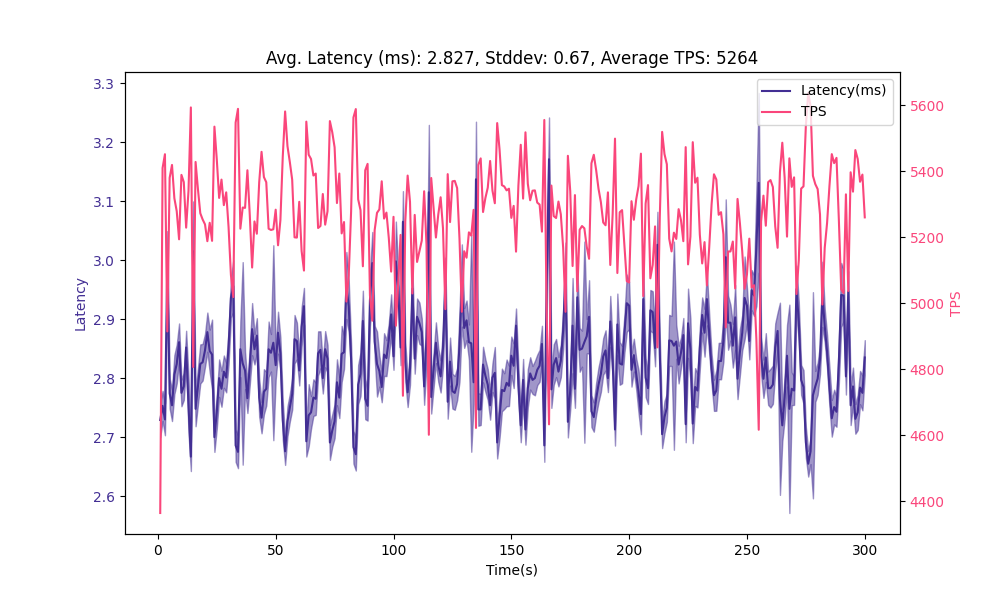
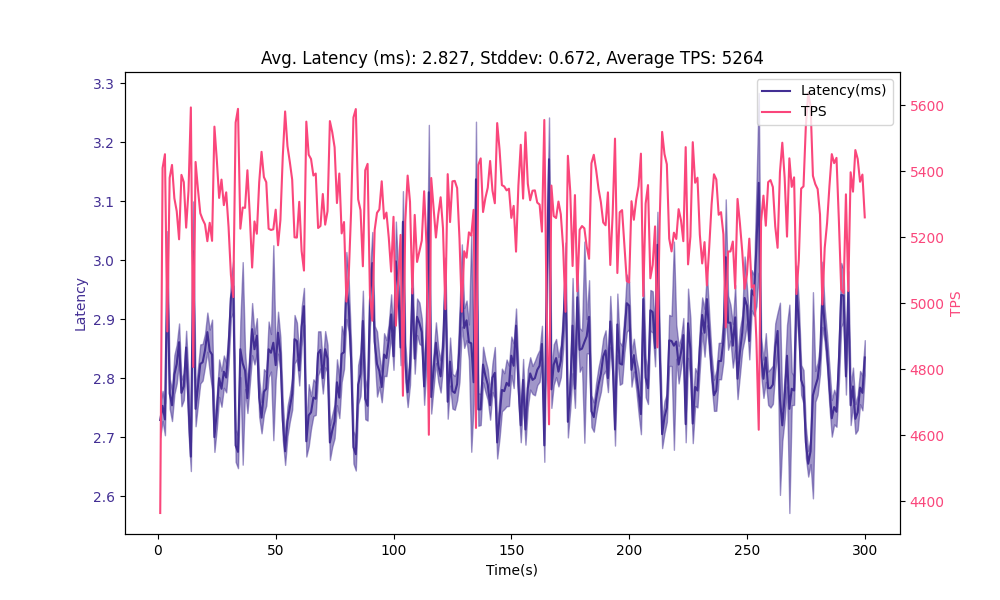
pass

Changed region(s): [[0.248, 0.06, 0.775, 0.12]]

diff --git a/blog/2023-08-31-tuning-autovacuum/index.md b/blog/2023-08-31-tuning-autovacuum/index.md
@@ -210,27 +210,21 @@ ALTER SYSTEM SET autovacuum_naptime = '1min';
 SELECT pg_reload_conf();
 ```
 
-Let’s run a benchmark to get a baseline:
+Let’s run a benchmark to get a baseline. We will reuse this benchmark through the process.
 
 ```sh
-pgbench 'postgresql://postgres:pw@host:5432' 
--c 100 
--j 1 
--P 1 
--T 300 
--r 
--f churn.sql
+pgbench 'postgresql://postgres:pw@host:5432' -c 100 -j 1 -P 1 -T 300 -r -f churn.sql
 ```
 
 ![default](default.png "default")
 
-Average latency is about 3.4 ms. We are benchmarking an expensive set of queries, and you’ve probably noticed the sawtooth pattern in the plot, and a relatively high standard deviation. This is a symptom of bloat accumulating on our table. Query latency grows until the vacuum process clears dead tuples, and then grows once again. Ideally we can reduce average latency and provide some stability to the latency value as well.
+Average latency is about 3.4 ms. We are benchmarking an expensive set of queries, and you’ve probably noticed the sawtooth pattern in the plot and a high standard deviation relative to the latency. This is a symptom of bloat accumulating on our table. Query latency grows until the vacuum process clears dead tuples, and then grows once again. This also has an inverse impact on transactions per second (TPS). Ideally we can reduce and provide some stability to latency.
 
 ## Balancing Vacuum Delay for Optimal System Performance
 
 Vacuuming is indispensable. However, it is not free and if left unchecked, it can burden your system. The balance lies in `autovacuum_vacuum_cost_delay` and `autovacuum_vacuum_cost_limit`. `autovacuum_vacuum_cost_delay` is the amount of time that the autovacuum process will halt processing when the `autovacuum_vacuum_cost_limit` is reached. Imagine this series of events - a table reaches 10% bloat, meaning 10% of the tuples are dead. When the 10% threshold is reached, the autovacuum worker begins to work and starts accruing cost. When that cost reaches `autovacuum_vacuum_cost_limit`, it will pause for the duration specified by `autovacuum_vacuum_cost_delay`, and then continue working until it is complete.
 
-Modifying these can craft the perfect balance between seamless vacuuming and system efficiency. Let’s increase the cost limit to the max, and reduce the delay by  half. This will let the autovacuum process run longer and pause for a shorter period of time when it does reach the cost limit, to ideally reduce bloat faster and reduce query latency. 
+Modifying these can craft the perfect balance between seamless vacuuming and system efficiency. Let’s increase the cost limit to the max, and reduce the delay by  half. This will let the autovacuum process run longer and pause for a shorter period of time when it does reach the cost limit, to ideally reduce bloat faster and reduce query latency.
 
 ```sql
 ALTER SYSTEM SET autovacuum_vacuum_cost_delay = '10ms';
@@ -240,7 +234,7 @@ SELECT pg_reload_conf();
 
 ![delay_cost_limit](delay_limit.png "delay-cost-limit")
 
-We have a slight reduction in average latency, but we can still see that it obviously grows over time, and clears roughly every 60 seconds.
+We have a slight reduction in average latency, but we can still see that the obviously grows in latency over time and decrease in TPS. It clears roughly every 60 seconds.
 
 ## Fine-Tuning Auto Vacuum Scale Factors
 
@@ -253,27 +247,13 @@ SELECT pg_reload_conf();
 
 ![scale-factor](scale_factor.png "scale-factor")
 
-scaling factor: 1
-query mode: simple
-number of clients: 15
-number of threads: 1
-duration: 300 s
-number of transactions actually processed: 1374255
-latency average = 3.250 ms
-latency stddev = 0.950 ms
-initial connection time = 421.651 ms
-tps = 4587.258737 (without initial connection time)
-statement latencies in milliseconds:
-         3.250  DO $$
-
-
-Reducing the scale factor had limited effect on our result, unfortunately.
+Reducing the scale factor had minimal impact on our result, so allowing the autovacuum to trigger sooner did not help. We can see that the period of the sawtooth pattern is still about 60 seconds, which means there we are probably limited by `autovacuum_naptime`, which we'll talk about next.
 
 ## A Quick Siesta for Your System
 
-The autovacuum_naptime parameter in PostgreSQL dictates the duration between auto-vacuum runs. By default, PostgreSQL has set intervals for these operations. Depending on just how high-churn your workloads are, it might be necessary to decrease this value, whereas a longer interval could be suited for environments that are not churning at such a high rate. For a table that has incredibly high churn, like a queue, it is likely that the table routinely sits near 100% bloat.
+The autovacuum_naptime parameter in Postgres specifies the minimum delay between autovacuum runs on any given database. The default (which we set earlier) is `1min`. Generally, depending on just how high-churn your workloads are, it might be necessary to decrease this value, whereas a longer interval could be suited for environments that are not churning at such a high rate. But our table has a crazy amount of churn.
 
-We want to reduce the height of the latency peaks. One way to do this is to make the vacuum more aggressive and tell it to run sooner. We tried to influence that by setting the autovacuum_vacuum_scale_factor, but we can also lower the autovacuum_naptime value, which will also allow it to run sooner. Let’s cut it in half.
+We want to reduce the height of the latency peaks. One way to do this is to make the vacuum more aggressive and tell it to run sooner. We tried to influence that by setting the `autovacuum_vacuum_scale_factor`, but we can also lower the `autovacuum_naptime` value, which will also allow it to run sooner. Let’s cut it in half.
 
 ```sql
 ALTER SYSTEM SET autovacuum_naptime = '30s';
@@ -282,7 +262,7 @@ SELECT pg_reload_conf();
 
 ![naptime](naptime.png "naptime")
 
-Allowing the autovacuumer to run more frequently significantly reduced our average latency. However, we’re still seeing a noticeable sawtooth pattern and high standard deviation of latency. Let’s completely disable the cost limitations to the vacuum process, let it have as much compute as it needs.
+Allowing the autovacuumer to run more frequently reduced our average latency and increase TPS. However, we’re still seeing a noticeable sawtooth pattern and high standard deviation of latency. Let’s completely disable the cost limitations to the vacuum process, let it have as much compute as it needs.
 
 ```sql
 ALTER SYSTEM SET autovacuum_vacuum_cost_delay = '0';
@@ -290,20 +270,6 @@ SELECT pg_reload_conf();
 ```
 
 ![disable-cost](disable_cost.png "disable-cost")
-
-
-scaling factor: 1
-query mode: simple
-number of clients: 15
-number of threads: 1
-duration: 300 s
-number of transactions actually processed: 1439567
-latency average = 3.106 ms
-latency stddev = 0.950 ms
-initial connection time = 475.391 ms
-tps = 4806.122368 (without initial connection time)
-statement latencies in milliseconds:
-         3.106  DO $$
 
 Finally, reduce naptime to 10s
 
@@ -314,7 +280,7 @@ SELECT pg_reload_conf();
 
 ![naptime-final](naptime_final.png "naptime-final")
 
-Overall, we’ve iterated on autovacuum settings and reduced the average latency from 3.4ms to 2.8ms and stddev from 1ms to 0.8ms, which helped increase transactions per second from 4.3k to about 5.3k.
+Overall, we’ve iterated on autovacuum settings and reduced the average latency from 3.4ms to 2.8ms and stddev from 0.8ms to 0.7ms, which helped increase TPS from 4.3k to about 5.3k.
 
 Configuring the autovacuum settings can be a lot of fun and the appreciated values are wildly dependent on the workload. We covered the absurdly high churn use case on a single-table today, which is very similar to what we see when running applications using PGMQ. Vacuum is complicated and can be [tuned differently](https://www.enterprisedb.com/blog/postgresql-vacuum-and-analyze-best-practice-tips) when considering multiple tables with different workloads. Other OLTP use cases will call for different settings, and OLAP workloads may be less influenced by the vacuum settings altogether. Follow us, and sign up for the Tembo Cloud waitlist because we will surely be writing about these other topics soon.
 
